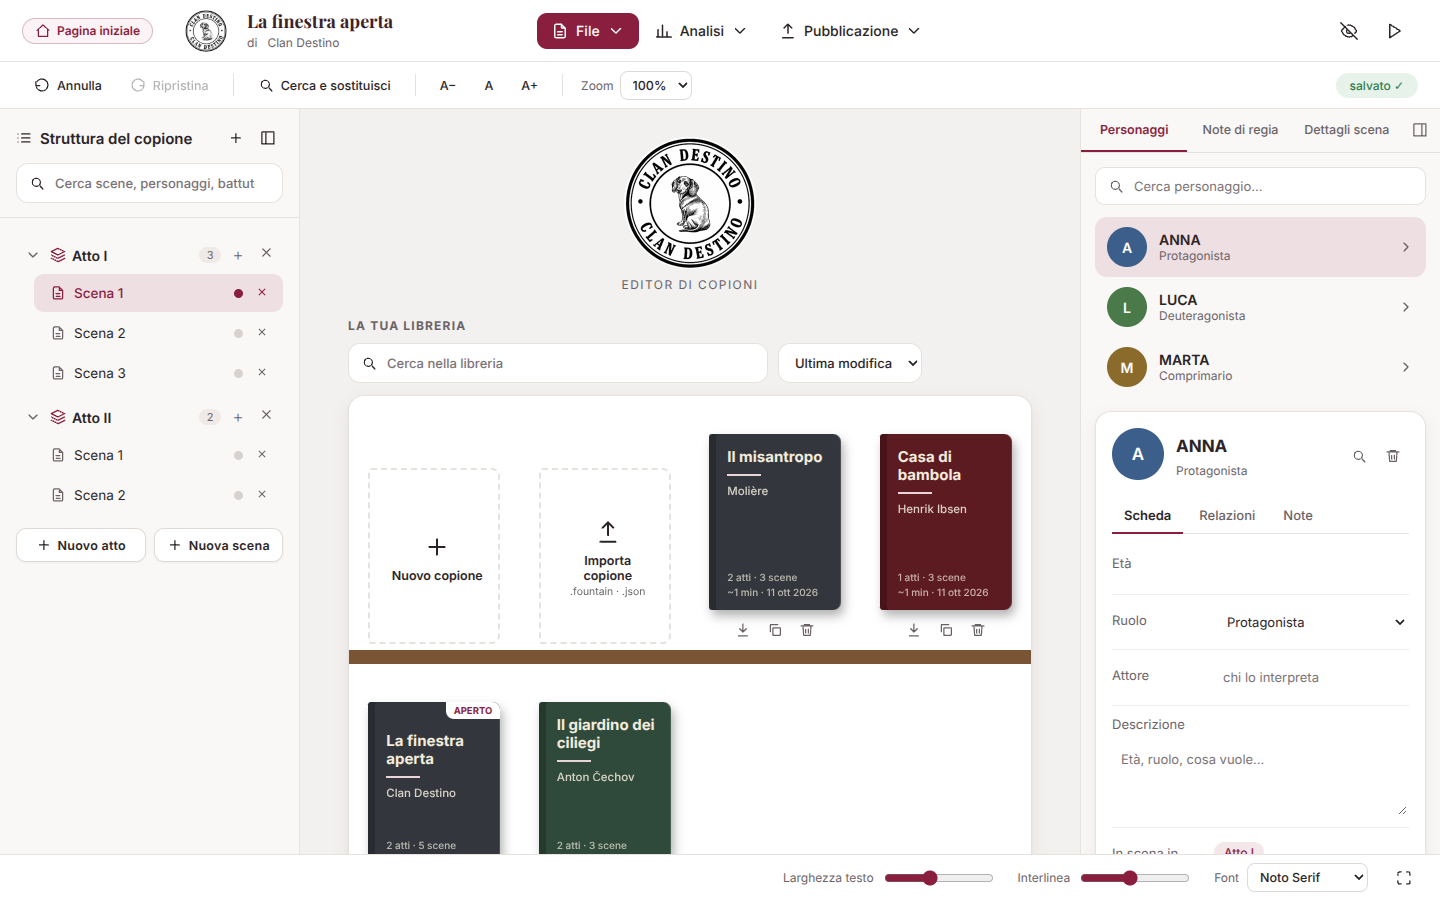
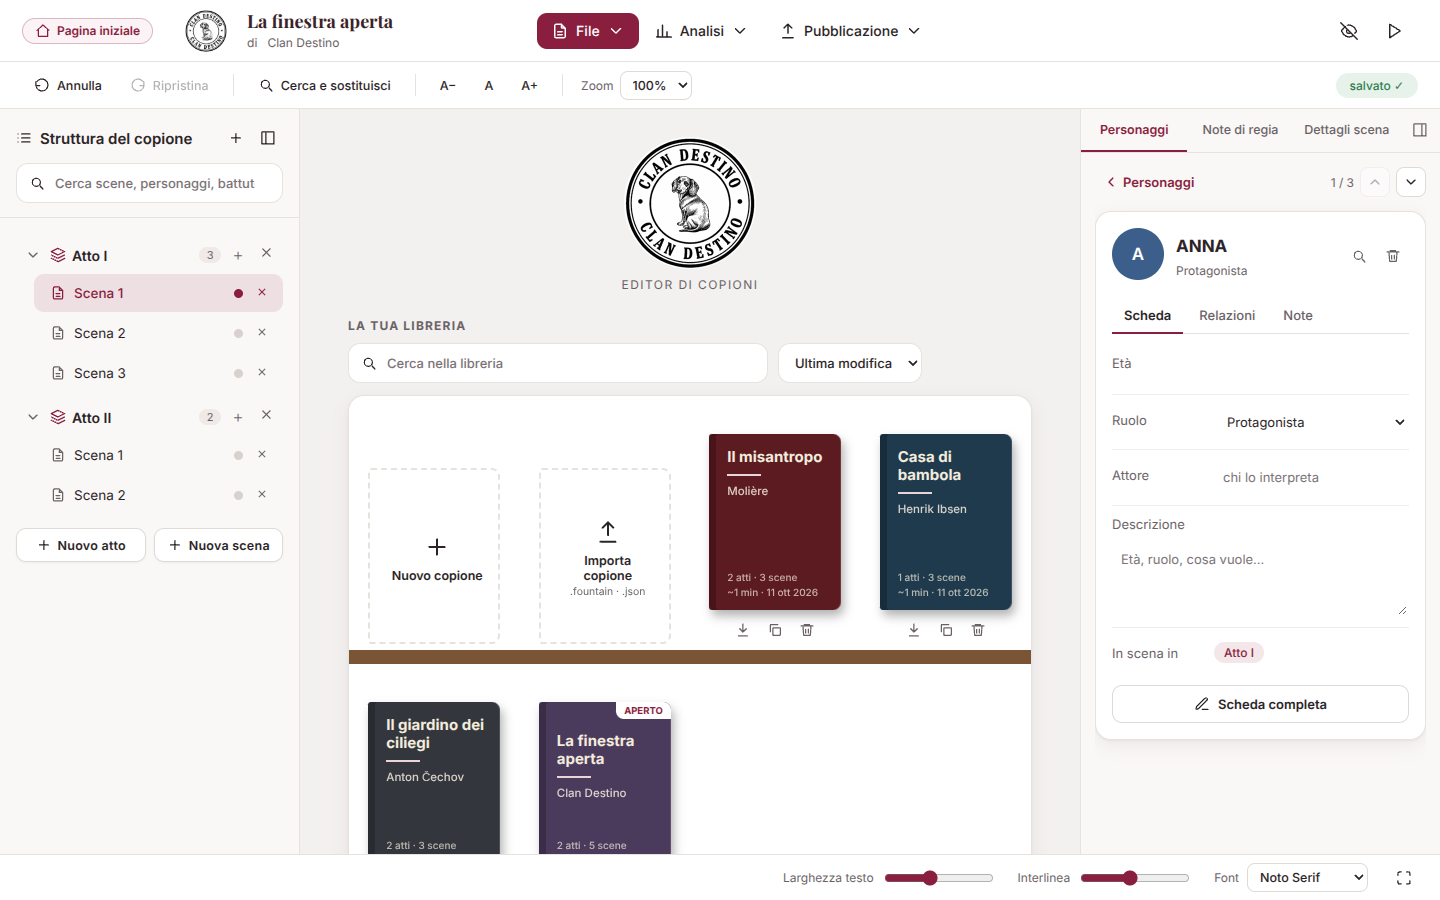
personaggi

diff --git a/index.html b/index.html
@@ -5537,5 +5537,55 @@ if(grid){
 })();
 </script>
 
+<style id="pc-b">
+body.pro #rpPers.on{display:flex;flex-direction:column;overflow:hidden;padding-bottom:10px}
+body.pro #rpPers .rp-search{flex:none}
+body.pro #rpPersList{display:flex;flex-direction:column;min-height:0;flex:1}
+body.pro #rpPcList{flex:1 1 auto;overflow-y:auto}
+body.pro #rpPersList.pc-detail #rpPcList,body.pro #rpPersList.pc-detail .pc-bar,body.pro #rpPers:has(.pc-detail) .rp-search{display:none}
+body.pro #rpPcCard{flex:1 1 0;overflow-y:auto}
+body.pro #rpPersList:not(.pc-detail) #rpPcCard{display:none}
+.pc-nav{display:flex;align-items:center;gap:6px;margin:0 0 8px}
+.pc-nav .pc-back{display:inline-flex;align-items:center;gap:4px;border:none;background:none;color:var(--sipario);font:600 13px Inter,sans-serif;cursor:pointer;padding:6px 8px;border-radius:8px}
+.pc-nav .pc-back:hover{background:#F3E7EA}
+.pc-nav .pc-n{margin-left:auto;font:12px Inter,sans-serif;color:var(--grigio)}
+.pc-nav .pc-step{width:30px;height:30px;border:1px solid #E0DAD6;background:#fff;border-radius:8px;cursor:pointer;color:var(--inchiostro);display:flex;align-items:center;justify-content:center;padding:0}
+.pc-nav .pc-step:disabled{opacity:.35;cursor:default}
+</style>
+<script id="pc-b-js">
+(function(){
+var U=window.__ui,ico=U.ico,host=document.getElementById('rpPersList'),card=document.getElementById('rpPcCard');
+if(!host||!card)return;
+function rows(){return Array.prototype.slice.call(document.querySelectorAll('#rpPcList .pc-row'))}
+function nav(){
+  if(!host.classList.contains('pc-detail'))return;
+  if(card.querySelector('.pc-nav'))return;
+  var r=rows(),i=r.findIndex(function(x){return x.classList.contains('on')});
+  var d=document.createElement('div');d.className='pc-nav';
+  d.innerHTML='<button type="button" class="pc-back">'+ico('chevL')+'Personaggi</button><span class="pc-n">'+(i+1)+' / '+r.length+'</span><button type="button" class="pc-step" data-st="-1" aria-label="Personaggio precedente">'+ico('up')+'</button><button type="button" class="pc-step" data-st="1" aria-label="Personaggio successivo">'+ico('chev')+'</button>';
+  d.querySelector('[data-st="-1"]').disabled=i<=0;d.querySelector('[data-st="1"]').disabled=i>=r.length-1;
+  card.insertBefore(d,card.firstChild);
+}
+new MutationObserver(nav).observe(card,{childList:true});
+var lastCount=rows().length;
+new MutationObserver(function(){
+  var n=rows().length;
+  if(host.classList.contains('pc-detail')&&(n<lastCount||n===0))host.classList.remove('pc-detail');
+  lastCount=n;
+}).observe(document.getElementById('rpPcList'),{childList:true});
+host.addEventListener('keydown',function(e){
+  if(e.key==='Escape'&&host.classList.contains('pc-detail')&&!document.querySelector('.modal-overlay.open')){host.classList.remove('pc-detail');var s=document.querySelector('#rpPcList .pc-row.on');if(s)s.focus()}
+});
+host.addEventListener('click',function(e){
+  if(e.target.closest('[data-pa="add"]')){setTimeout(function(){host.classList.add('pc-detail');nav()},300);return}
+  var row=e.target.closest('.pc-row');
+  if(row){host.classList.add('pc-detail');setTimeout(nav,0);return}
+  if(e.target.closest('.pc-back')){host.classList.remove('pc-detail');var s=document.querySelector('#rpPcList .pc-row.on');if(s)s.scrollIntoView({block:'nearest'});return}
+  var st=e.target.closest('.pc-step');
+  if(st&&!st.disabled){var r=rows(),i=r.findIndex(function(x){return x.classList.contains('on')}),n=r[i+Number(st.dataset.st)];if(n)n.click()}
+});
+})();
+</script>
+
 </body>
 </html>

diff --git a/GUIDA.md b/GUIDA.md
@@ -79,13 +79,14 @@ Altri strumenti:
 
 Nel pannello di destra, scheda **Personaggi**:
 
-- **Elenco**: ogni personaggio ha un cerchio colorato con le iniziali, il nome e il ruolo. Il campo in alto filtra per nome. Cliccando un personaggio ne vedi la scheda sotto l'elenco.
-- **Scheda** con tre sezioni:
+- **Elenco**: ogni personaggio ha un cerchio colorato con le iniziali, il nome e il ruolo. Il campo in alto filtra per nome.
+- **Scheda**: cliccando un personaggio l'elenco lascia il posto alla sua scheda, che usa tutto il pannello (così si legge bene anche con tanti personaggi).
+  - In alto: **‹ Personaggi** (oppure `Esc`) torna all'elenco; il contatore (per esempio *3 / 10*) dice dove sei; le **frecce** passano al personaggio precedente o successivo senza tornare all'elenco.
   - **Scheda**: età, ruolo (scelto da un elenco), attore, descrizione e gli atti in cui il personaggio compare. Il pulsante **Scheda completa** apre tutti gli altri campi (aspetto, costume, voce, obiettivo, conflitto, foto, colore…).
-  - **Relazioni**: con chi è in rapporto e come (es. «madre di», «rivale di»). Il pulsante **Relazioni** in fondo apre il diagramma.
+  - **Relazioni**: con chi è in rapporto e come (es. «madre di», «rivale di»). Il pulsante **Relazioni** in fondo all'elenco apre il diagramma.
   - **Note**: retroscena per l'attore e note di regia private.
-- In alto nella scheda: la lente mostra **solo le scene** con quel personaggio, il cestino lo elimina (chiede conferma e rimuove anche le relazioni collegate).
-- **Nuovo personaggio** in fondo all'elenco lo aggiunge e lo seleziona.
+  - La lente mostra **solo le scene** con quel personaggio, il cestino lo elimina (chiede conferma, rimuove anche le relazioni collegate e riporta all'elenco).
+- **Nuovo personaggio** (in fondo all'elenco) lo aggiunge e apre subito la sua scheda.
 - Quando scrivi una battuta scegli il personaggio dall'elenco: il nome compare sempre in maiuscolo.
 
 ## 5. Dettagli e note di ogni scena

diff --git a/CHANGELOG.md b/CHANGELOG.md
@@ -14,6 +14,7 @@ Tutte le novità dell'editor, raggruppate per argomento. L'ultimo aggiornamento 
 
 ## Personaggi
 - Nuovo elenco con cerchi colorati e ruolo; scheda con tre sezioni (Scheda, Relazioni, Note) modificabile direttamente.
+- Con molti personaggi la scheda occupa tutto il pannello: si passa dall'elenco alla scheda e viceversa, con frecce per scorrere i personaggi e `Esc` per tornare indietro.
 
 ## Libreria e dati
 - **Più copioni** nella libreria: aprire, duplicare, eliminare, cercare, ordinare.
